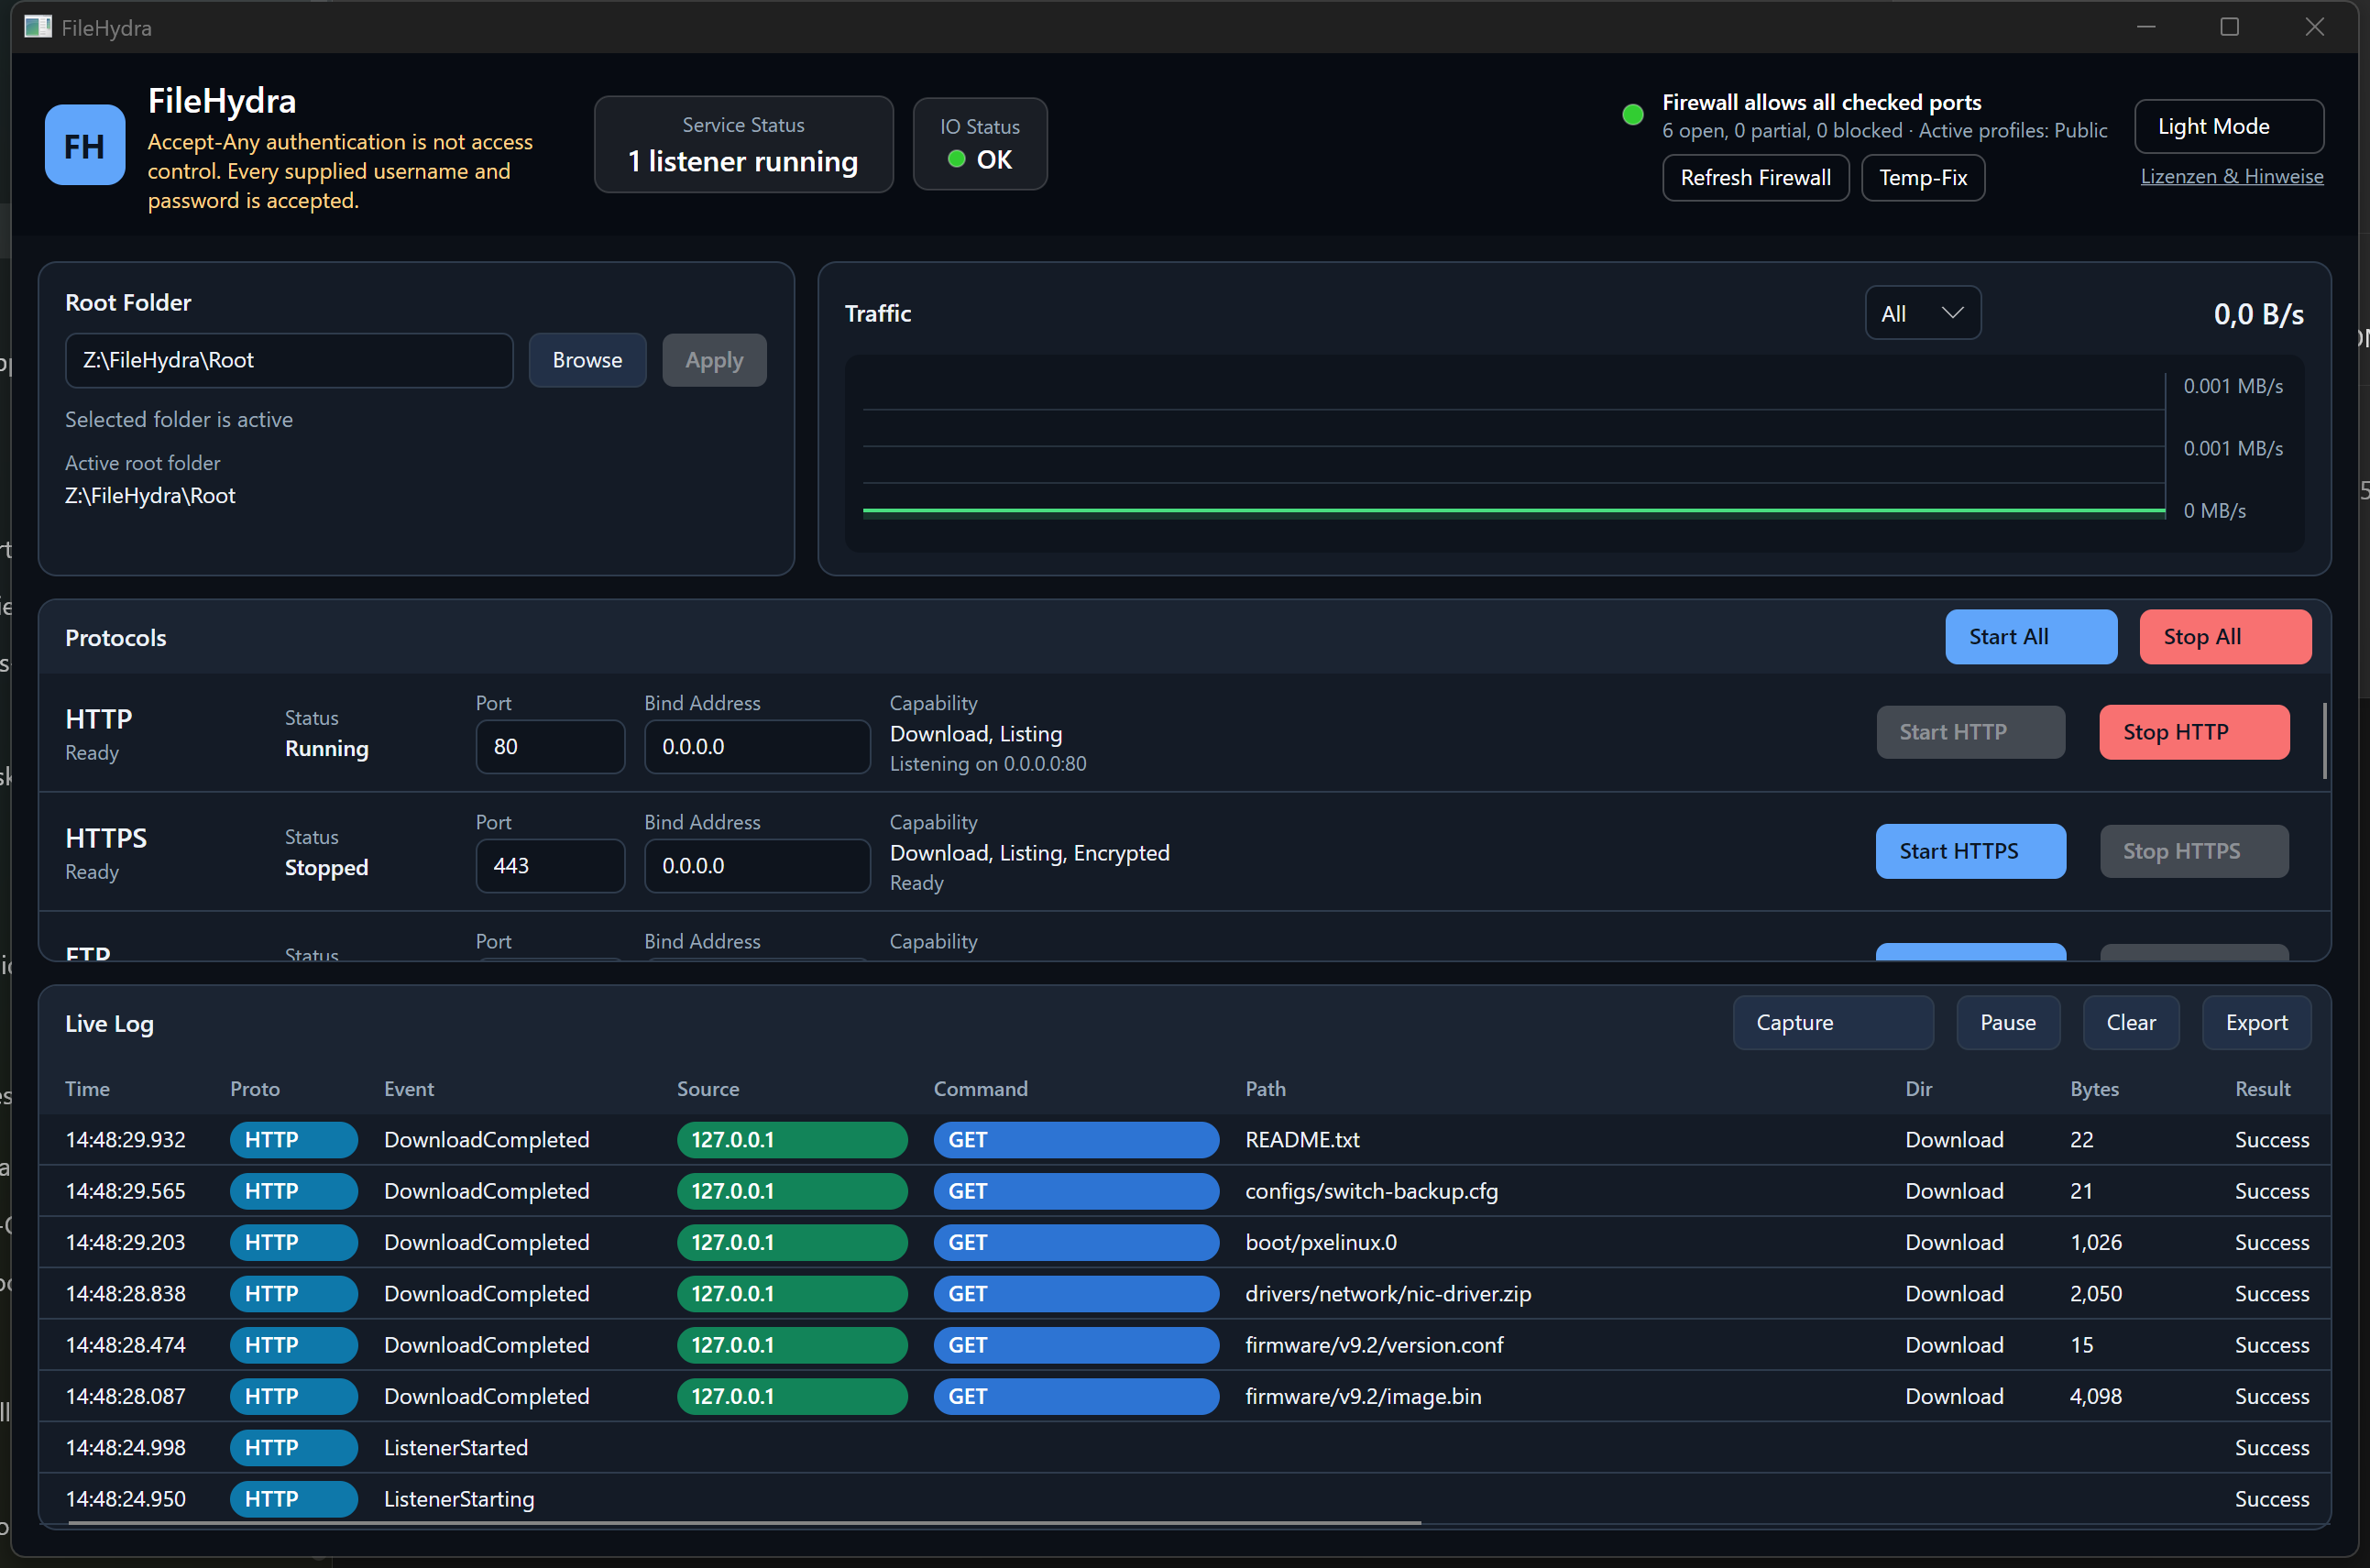
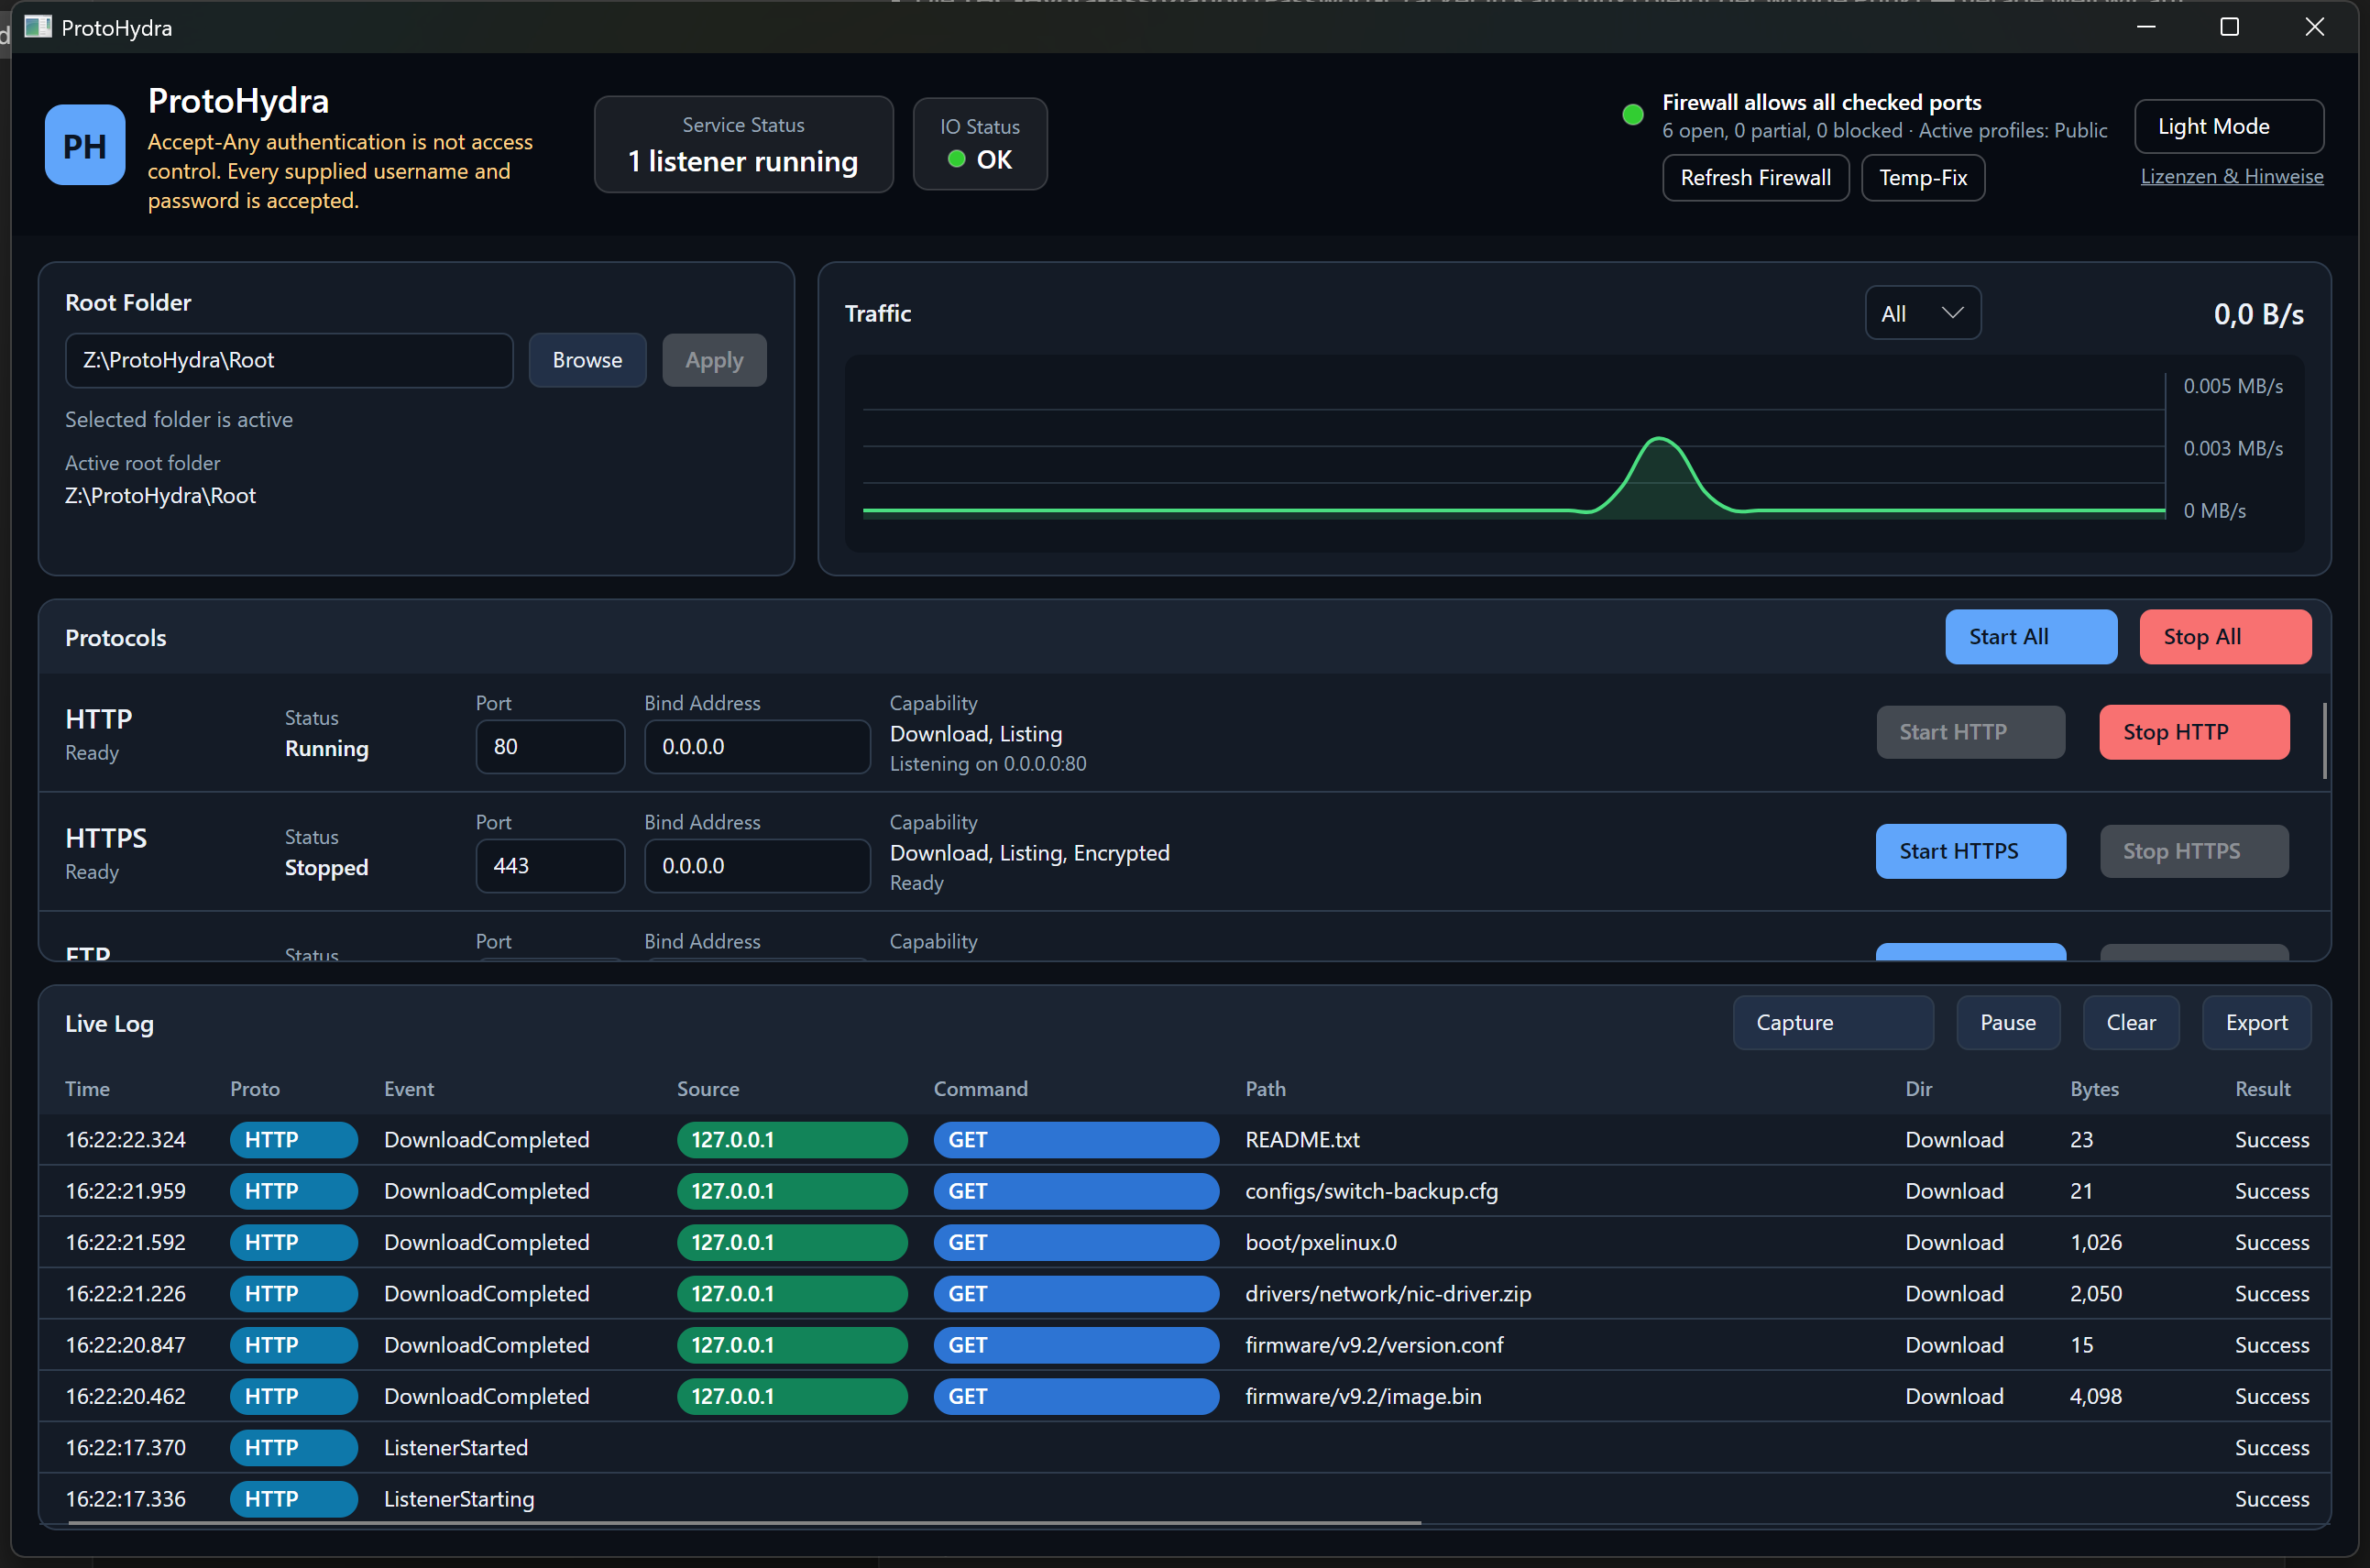
Rebrand: FileHydra -> ProtoHydra
Rename across code, UI, data path (%LOCALAPPDATA%\ProtoHydra\), SSH banner,
certificate CN, firewall rule names, solution file, CI workflow, SECURITY.md,
README (both languages) and screenshot. Version unchanged (1.4.0, pure rebrand).

diff --git a/src/DataService.Infrastructure/Firewall/WindowsTemporaryFirewallRuleService.cs b/src/DataService.Infrastructure/Firewall/WindowsTemporaryFirewallRuleService.cs
@@ -55,7 +55,7 @@ public sealed class WindowsTemporaryFirewallRuleService : IFirewallTemporaryRule
         }
 
         var ruleBaseName = BuildRuleBaseName(executablePath, ownerProcessId);
-        var stopEventName = $"Local\\FileHydra.FirewallFix.Stop.{ownerProcessId.ToString(CultureInfo.InvariantCulture)}";
+        var stopEventName = $"Local\\ProtoHydra.FirewallFix.Stop.{ownerProcessId.ToString(CultureInfo.InvariantCulture)}";
         lock (_lock)
         {
             _stopEvent?.Dispose();
@@ -115,7 +115,7 @@ public sealed class WindowsTemporaryFirewallRuleService : IFirewallTemporaryRule
         }
 
         var message = $"Temporary allow rules active (TCP: {FormatOrDash(tcpPorts)}; UDP: {FormatOrDash(udpPorts)}). "
-            + "They are removed automatically when FileHydra exits or when the fix is undone.";
+            + "They are removed automatically when ProtoHydra exits or when the fix is undone.";
         var policyWarning = TryGetPolicyWarning();
         if (policyWarning is not null)
         {
@@ -230,7 +230,7 @@ public sealed class WindowsTemporaryFirewallRuleService : IFirewallTemporaryRule
     private static string BuildRuleBaseName(string executablePath, int ownerProcessId)
     {
         var hash = Convert.ToHexString(SHA256.HashData(Encoding.UTF8.GetBytes(executablePath)))[..12];
-        return $"FileHydra Temporary Allow {ownerProcessId.ToString(CultureInfo.InvariantCulture)} {hash}";
+        return $"ProtoHydra Temporary Allow {ownerProcessId.ToString(CultureInfo.InvariantCulture)} {hash}";
     }
 
     private static string Quote(string value)
@@ -283,7 +283,7 @@ function Add-HydraRule {
     param($Policy, [string]$Name, [int]$Protocol, [string]$Ports)
     $rule = New-Object -ComObject HNetCfg.FWRule
     $rule.Name = $Name
-    $rule.Description = 'Temporary FileHydra allow rule. Removed automatically when the owner process exits.'
+    $rule.Description = 'Temporary ProtoHydra allow rule. Removed automatically when the owner process exits.'
     $rule.ApplicationName = $ExecutablePath
     $rule.Protocol = $Protocol
     $rule.LocalPorts = $Ports
@@ -299,9 +299,9 @@ try {
     Write-HelperLog "Elevated temporary firewall rule helper started (owner PID $OwnerProcessId)."
     $policy = New-Object -ComObject HNetCfg.FwPolicy2
 
-    $staleNames = @($policy.Rules | Where-Object { $_.Name -like 'FileHydra Temporary Allow *' } | ForEach-Object { $_.Name })
+    $staleNames = @($policy.Rules | Where-Object { $_.Name -like 'ProtoHydra Temporary Allow *' } | ForEach-Object { $_.Name })
     foreach ($staleName in $staleNames) {
-        # Rule name layout: "FileHydra Temporary Allow <pid> <hash> <TCP|UDP>" -> PID is token index 3.
+        # Rule name layout: "ProtoHydra Temporary Allow <pid> <hash> <TCP|UDP>" -> PID is token index 3.
         $parts = $staleName.Split(' ')
         $rulePid = 0
         if ($parts.Length -ge 4 -and [int]::TryParse($parts[3], [ref]$rulePid)) {

diff --git a/src/DataService.App/Views/LicenseWindow.axaml.cs b/src/DataService.App/Views/LicenseWindow.axaml.cs
@@ -16,10 +16,10 @@ public sealed partial class LicenseWindow : Window
 
     private static string BuildText()
     {
-        var mit = ReadResource("avares://FileHydra/Legal/LICENSE.txt");
-        var notices = ReadResource("avares://FileHydra/Legal/THIRD-PARTY-NOTICES.txt");
+        var mit = ReadResource("avares://ProtoHydra/Legal/LICENSE.txt");
+        var notices = ReadResource("avares://ProtoHydra/Legal/THIRD-PARTY-NOTICES.txt");
         return
-            "FileHydra — License (MIT)\n" +
+            "ProtoHydra — License (MIT)\n" +
             "==============================================================================\n\n" +
             mit +
             "\n\n\n" +

diff --git a/src/DataService.Core/Configuration/ApplicationDataPaths.cs b/src/DataService.Core/Configuration/ApplicationDataPaths.cs
@@ -2,7 +2,7 @@ namespace DataService.Core.Configuration;
 
 public static class ApplicationDataPaths
 {
-    public const string ProductDirectoryName = "FileHydra";
+    public const string ProductDirectoryName = "ProtoHydra";
 
     public static string Root
     {

diff --git a/src/DataService.Infrastructure/Certificates/CertificateManager.cs b/src/DataService.Infrastructure/Certificates/CertificateManager.cs
@@ -30,7 +30,7 @@ public sealed class CertificateManager : ICertificateManager
 
         using var rsa = RSA.Create(3072);
         var request = new CertificateRequest(
-            $"CN=FileHydra {purpose}",
+            $"CN=ProtoHydra {purpose}",
             rsa,
             HashAlgorithmName.SHA256,
             RSASignaturePadding.Pkcs1);

diff --git a/src/DataService.Protocols.Ssh/SharedSshServer.cs b/src/DataService.Protocols.Ssh/SharedSshServer.cs
@@ -223,7 +223,7 @@ public sealed class SharedSshServer : IDisposable
     {
         var address = IPAddress.Parse(configuration.BindAddress);
         var pem = await _hostKeyStore.GetOrCreateRsaKeyPemAsync(cancellationToken).ConfigureAwait(false);
-        var server = new SshServer(new StartingInfo(address, configuration.Port, "SSH-2.0-FileHydra"));
+        var server = new SshServer(new StartingInfo(address, configuration.Port, "SSH-2.0-ProtoHydra"));
         server.AddHostKey("rsa-sha2-256", pem);
         server.AddHostKey("rsa-sha2-512", pem);
         server.ConnectionAccepted += HandleConnectionAccepted;

diff --git a/tests/DataService.Core.Tests/Infrastructure/FirewallPolicyEvaluatorTests.cs b/tests/DataService.Core.Tests/Infrastructure/FirewallPolicyEvaluatorTests.cs
@@ -4,7 +4,7 @@ namespace DataService.Core.Tests.Infrastructure;
 
 public sealed class FirewallPolicyEvaluatorTests
 {
-    private const string ExecutablePath = @"C:\Apps\FileHydra\app.exe";
+    private const string ExecutablePath = @"C:\Apps\ProtoHydra\app.exe";
 
     private static FirewallProfileState Profile(
         FirewallProfile profile,

diff --git a/README.md b/README.md
@@ -1,5 +1,5 @@
 <a id="filehydra"></a>
-# FileHydra
+# ProtoHydra
 
 **Sprache / Language:  [🇩🇪 Deutsch](#-deutsch)  ·  [🇬🇧 English](#-english)**
 
@@ -11,22 +11,22 @@ _Multi-protocol file server for system administrators – seven protocols, one f
 <a id="-deutsch"></a>
 ## 🇩🇪 Deutsch
 
-FileHydra ist eine portable Windows-Desktopanwendung, die einen einzigen Ordner gleichzeitig über **TFTP, FTP, FTPS, SFTP, SCP, HTTP und HTTPS** bereitstellt. Statt für jeden Wartungsfall einen anderen Server zu installieren und zu konfigurieren, startest du FileHydra, wählst einen Ordner und aktivierst genau die Protokolle, die das Gerät oder der Client gerade erwartet – ohne Installation, ohne Dienst, ohne Domänenintegration.
+ProtoHydra ist eine portable Windows-Desktopanwendung, die einen einzigen Ordner gleichzeitig über **TFTP, FTP, FTPS, SFTP, SCP, HTTP und HTTPS** bereitstellt. Statt für jeden Wartungsfall einen anderen Server zu installieren und zu konfigurieren, startest du ProtoHydra, wählst einen Ordner und aktivierst genau die Protokolle, die das Gerät oder der Client gerade erwartet – ohne Installation, ohne Dienst, ohne Domänenintegration.
 
 Gedacht ist das Werkzeug für den Admin-Alltag: Netzwerkgeräte flashen, Appliances bootstrappen, Konfigurationen ein- und ausspielen, Recovery-Images ausliefern – oft an einem isolierten Wartungslaptop, direkt neben dem Rack.
 
 ![App-Screenshot](docs/screenshot.png)
 
-### Wofür Systemadministratoren FileHydra einsetzen
+### Wofür Systemadministratoren ProtoHydra einsetzen
 
-- **Firmware-Upgrades von Netzwerkgeräten.** Switches, Router, FC-Fabrics, WLAN-Controller und Storage-Appliances erwarten ihr Firmware-Image je nach Hersteller über TFTP, SCP oder SFTP – und oft mit exakt einem passenden Protokoll. FileHydra bietet den Firmware-Ordner über alle Varianten parallel an, sodass du nicht raten musst, welches das Zielgerät akzeptiert.
+- **Firmware-Upgrades von Netzwerkgeräten.** Switches, Router, FC-Fabrics, WLAN-Controller und Storage-Appliances erwarten ihr Firmware-Image je nach Hersteller über TFTP, SCP oder SFTP – und oft mit exakt einem passenden Protokoll. ProtoHydra bietet den Firmware-Ordner über alle Varianten parallel an, sodass du nicht raten musst, welches das Zielgerät akzeptiert.
 - **Backup und Restore von Gerätekonfigurationen.** `copy running-config tftp:` bzw. der SCP-/SFTP-Upload eines Config-Exports landet direkt im Root-Ordner; der Restore geht denselben Weg zurück.
 - **PXE- und Netzwerk-Boot.** Der TFTP-Dienst liefert Bootloader (`pxelinux.0`, `ipxe.efi`, WDS-Stufen), während HTTP große Boot-Images (WIM, Squashfs, ISO) deutlich schneller ausliefert als TFTP.
 - **Ausliefern von Treibern, Agents und Installationspaketen.** Ein Gerät oder Techniker im Feld lädt per HTTP/HTTPS im Browser oder per Skript – mit klickbarem Verzeichnislisting.
-- **Datenaustausch in abgeschotteten oder Air-Gap-Netzen.** Wenn kein zentraler Fileserver erreichbar ist, überbrückt ein Wartungslaptop mit FileHydra die Lücke, ohne dass etwas dauerhaft installiert wird.
+- **Datenaustausch in abgeschotteten oder Air-Gap-Netzen.** Wenn kein zentraler Fileserver erreichbar ist, überbrückt ein Wartungslaptop mit ProtoHydra die Lücke, ohne dass etwas dauerhaft installiert wird.
 - **Interoperabilitäts- und Client-Tests.** Reproduzierbar prüfen, wie sich ein Client oder eine Appliance gegenüber FTP, FTPS, SFTP oder klassischem SCP verhält – inklusive Live-Mitschnitt des Protokollverkehrs.
 
-> **Typischer Ablauf:** Wartungslaptop ins Geräte-VLAN, FileHydra starten, Firmware-Ordner als Root wählen, benötigtes Protokoll aktivieren, am Gerät den Transfer anstoßen, im Live-Log mitverfolgen – fertig.
+> **Typischer Ablauf:** Wartungslaptop ins Geräte-VLAN, ProtoHydra starten, Firmware-Ordner als Root wählen, benötigtes Protokoll aktivieren, am Gerät den Transfer anstoßen, im Live-Log mitverfolgen – fertig.
 
 ### Unterstützte Protokolle
 
@@ -60,15 +60,15 @@ Gedacht ist das Werkzeug für den Admin-Alltag: Netzwerkgeräte flashen, Applian
 
 **Voraussetzung:** Windows (x64). Es wird **kein** installiertes .NET benötigt – die Anwendung ist self-contained.
 
-Lade die aktuelle `FileHydra.exe` aus dem [Release-Bereich dieses Repositories](https://github.com/ThatIsCraZy/FileHydra/releases) herunter und starte sie direkt:
+Lade die aktuelle `ProtoHydra.exe` aus dem [Release-Bereich dieses Repositories](https://github.com/ThatIsCraZy/ProtoHydra/releases) herunter und starte sie direkt:
 
 ```powershell
-.\FileHydra.exe
+.\ProtoHydra.exe
 ```
 
 Keine Installation, kein Dienst, keine Registry-Einträge für die Anwendung selbst. Zum Deinstallieren genügt es, die EXE und den Datenordner (siehe unten) zu löschen.
 
-> **Ports unter 1024** (TFTP 69, FTP 21, SFTP/SCP 22, HTTP 80, HTTPS 443) erfordern unter Windows in der Regel administrative Rechte. Starte FileHydra als Administrator, wenn du die Standard-Ports nutzen willst, oder weiche im UI auf hohe Ports (z. B. 6969, 2121, 2222, 8080) aus.
+> **Ports unter 1024** (TFTP 69, FTP 21, SFTP/SCP 22, HTTP 80, HTTPS 443) erfordern unter Windows in der Regel administrative Rechte. Starte ProtoHydra als Administrator, wenn du die Standard-Ports nutzen willst, oder weiche im UI auf hohe Ports (z. B. 6969, 2121, 2222, 8080) aus.
 
 ### Verwendung
 
@@ -106,7 +106,7 @@ FTP/FTPS mit FileZilla, WinSCP oder curl (Host, Port `21`/`990`, beliebiger User
 
 ### Sicherheitshinweise
 
-> **⚠️ FileHydra ist kein gehärteter Produktivserver.**
+> **⚠️ ProtoHydra ist kein gehärteter Produktivserver.**
 
 Die Anwendung nutzt bewusst eine **Accept-Any-Authentifizierung**: Jeder Benutzername und jedes Passwort wird akzeptiert, es findet **keine Zugriffskontrolle** statt. Das ist für Wartungs- und Bootstrapping-Szenarien gewollt (Geräte liefern oft feste oder leere Credentials), macht das Tool aber **ungeeignet für den dauerhaften oder öffentlich erreichbaren Betrieb**.
 
@@ -118,7 +118,7 @@ Eingebaute Schutzmechanismen: mehrstufige Pfadvalidierung gegen Ausbruch aus dem
 
 ### Datenablage und Konfiguration
 
-Einstellungen liegen als JSON im Benutzerprofil. Laufzeitdaten (Zertifikate, SSH-Host-Key, Logs, Firewall-Helper) liegen unter `%LOCALAPPDATA%\FileHydra\`, der Standard-Root-Ordner unter `%LOCALAPPDATA%\FileHydra\Root`. Konfigurierbar sind u. a. RootPath, Protocols (Ports/Bind-Adressen/aktivierte Protokolle), Certificate (X.509 für HTTPS/FTPS), SshHostKey und LogSettings.
+Einstellungen liegen als JSON im Benutzerprofil. Laufzeitdaten (Zertifikate, SSH-Host-Key, Logs, Firewall-Helper) liegen unter `%LOCALAPPDATA%\ProtoHydra\`, der Standard-Root-Ordner unter `%LOCALAPPDATA%\ProtoHydra\Root`. Konfigurierbar sind u. a. RootPath, Protocols (Ports/Bind-Adressen/aktivierte Protokolle), Certificate (X.509 für HTTPS/FTPS), SshHostKey und LogSettings.
 
 ### Bauen aus dem Quellcode
 
@@ -130,7 +130,7 @@ dotnet publish src\DataService.App\DataService.App.csproj -c Release   # self-co
 dotnet test                                                            # Tests
 ```
 
-Die fertige EXE liegt unter `src\DataService.App\bin\Release\net10.0\win-x64\publish\FileHydra.exe`.
+Die fertige EXE liegt unter `src\DataService.App\bin\Release\net10.0\win-x64\publish\ProtoHydra.exe`.
 
 ### Projektarchitektur
 
@@ -148,11 +148,11 @@ src/
 
 ### Danksagung & verwendete Quellen
 
-FileHydra steht auf den Schultern hervorragender Open-Source-Arbeit. Unser aufrichtiger Dank gilt den Autorinnen und Autoren sowie den Maintainer-Teams der folgenden Projekte – ohne sie gäbe es dieses Werkzeug nicht:
+ProtoHydra steht auf den Schultern hervorragender Open-Source-Arbeit. Unser aufrichtiger Dank gilt den Autorinnen und Autoren sowie den Maintainer-Teams der folgenden Projekte – ohne sie gäbe es dieses Werkzeug nicht:
 
 **Direkt eingebundene Laufzeitbibliotheken**
 
-| Komponente | Zweck in FileHydra | Autor / Projekt | Lizenz |
+| Komponente | Zweck in ProtoHydra | Autor / Projekt | Lizenz |
 |---|---|---|---|
 | [Avalonia](https://avaloniaui.net) (`Avalonia`, `Avalonia.Desktop`, `Avalonia.Themes.Fluent`) | Plattform-GUI | AvaloniaUI OÜ & Contributors | MIT |
 | [CommunityToolkit.Mvvm](https://github.com/CommunityToolkit/dotnet) | MVVM-Grundgerüst | .NET Foundation & Contributors | MIT |
@@ -169,7 +169,7 @@ FileHydra steht auf den Schultern hervorragender Open-Source-Arbeit. Unser aufri
 **Referenzimplementierungen und Protokoll-Quellen** (kein fremder Quellcode übernommen – die interoperablen Wire-Protokolle wurden anhand dieser Projekte nachvollzogen):
 
 - [OpenSSH](https://www.openssh.com/) (BSD-artige Lizenz) – maßgebliche Referenz für das Verhalten des SCP-Protokolls (Exec-Modus, rekursive Übertragung, Rename-Semantik). Die vollständige Lizenz liegt unter [`THIRD-PARTY-NOTICES/OpenSSH/`](THIRD-PARTY-NOTICES/OpenSSH/).
-- [WinSCP](https://winscp.net/) – Referenz für das Verhalten des Shell-basierten SCP-Modus (Begin-/End-Marker, Return-Code-Erkennung, Kommando-Set), das FileHydra für die WinSCP-Kompatibilität nachbildet.
+- [WinSCP](https://winscp.net/) – Referenz für das Verhalten des Shell-basierten SCP-Modus (Begin-/End-Marker, Return-Code-Erkennung, Kommando-Set), das ProtoHydra für die WinSCP-Kompatibilität nachbildet.
 
 > Die vorstehenden Lizenzangaben dienen der Orientierung. **Maßgeblich ist stets die dem jeweiligen Projekt bzw. NuGet-Paket beiliegende Lizenz.** Alle genannten Komponenten verbleiben im Eigentum ihrer jeweiligen Rechteinhaber; ihre Lizenz- und Hinweispflichten gelten unverändert fort.
 
@@ -177,7 +177,7 @@ FileHydra steht auf den Schultern hervorragender Open-Source-Arbeit. Unser aufri
 
 Copyright © 2026 ThatIsCraZy.
 
-FileHydra (der Eigencode dieses Repositories) steht unter der **MIT-Lizenz**; der vollständige und rechtsverbindliche Lizenztext befindet sich in der Datei [LICENSE](LICENSE). Die nachfolgende Zusammenfassung dient nur der Übersicht und ersetzt den Lizenztext nicht.
+ProtoHydra (der Eigencode dieses Repositories) steht unter der **MIT-Lizenz**; der vollständige und rechtsverbindliche Lizenztext befindet sich in der Datei [LICENSE](LICENSE). Die nachfolgende Zusammenfassung dient nur der Übersicht und ersetzt den Lizenztext nicht.
 
 - **Erlaubt:** Nutzung, Vervielfältigung, Änderung, Zusammenführung, Veröffentlichung, Verbreitung, Unterlizenzierung und Verkauf – privat wie kommerziell.
 - **Bedingung:** Der obige Copyright-Vermerk und der Lizenztext müssen in allen Kopien oder wesentlichen Teilen der Software enthalten bleiben.
@@ -194,22 +194,22 @@ Teile des Eigencodes wurden mit Unterstützung von KI-Werkzeugen erstellt; die L
 <a id="-english"></a>
 ## 🇬🇧 English
 
-FileHydra is a portable Windows desktop application that serves a single folder simultaneously over **TFTP, FTP, FTPS, SFTP, SCP, HTTP and HTTPS**. Instead of installing and configuring a different server for every maintenance task, you launch FileHydra, pick a folder and enable exactly the protocols the device or client expects — no installation, no service, no domain integration.
+ProtoHydra is a portable Windows desktop application that serves a single folder simultaneously over **TFTP, FTP, FTPS, SFTP, SCP, HTTP and HTTPS**. Instead of installing and configuring a different server for every maintenance task, you launch ProtoHydra, pick a folder and enable exactly the protocols the device or client expects — no installation, no service, no domain integration.
 
 The tool is built for everyday admin work: flashing network gear, bootstrapping appliances, pushing and pulling configurations, delivering recovery images — often from an isolated maintenance laptop right next to the rack.
 
 ![Application screenshot](docs/screenshot.png)
 
-### What system administrators use FileHydra for
+### What system administrators use ProtoHydra for
 
-- **Firmware upgrades of network devices.** Switches, routers, FC fabrics, WLAN controllers and storage appliances expect their firmware image over TFTP, SCP or SFTP depending on the vendor — often via exactly one supported protocol. FileHydra offers the firmware folder over all of them at once, so you never have to guess which one the target device accepts.
+- **Firmware upgrades of network devices.** Switches, routers, FC fabrics, WLAN controllers and storage appliances expect their firmware image over TFTP, SCP or SFTP depending on the vendor — often via exactly one supported protocol. ProtoHydra offers the firmware folder over all of them at once, so you never have to guess which one the target device accepts.
 - **Backup and restore of device configurations.** `copy running-config tftp:` or an SCP/SFTP upload of a config export lands directly in the root folder; the restore takes the same path back.
 - **PXE and network boot.** The TFTP service delivers bootloaders (`pxelinux.0`, `ipxe.efi`, WDS stages), while HTTP serves large boot images (WIM, Squashfs, ISO) far faster than TFTP.
 - **Delivering drivers, agents and installers.** A device or an on-site technician downloads via HTTP/HTTPS in the browser or by script — with a clickable directory listing.
-- **Data exchange in segregated or air-gapped networks.** When no central file server is reachable, a maintenance laptop running FileHydra bridges the gap without installing anything permanently.
+- **Data exchange in segregated or air-gapped networks.** When no central file server is reachable, a maintenance laptop running ProtoHydra bridges the gap without installing anything permanently.
 - **Interoperability and client testing.** Reproducibly check how a client or appliance behaves against FTP, FTPS, SFTP or classic SCP — including a live capture of the protocol traffic.
 
-> **Typical workflow:** maintenance laptop into the device VLAN, launch FileHydra, select the firmware folder as root, enable the required protocol, trigger the transfer on the device, follow along in the live log — done.
+> **Typical workflow:** maintenance laptop into the device VLAN, launch ProtoHydra, select the firmware folder as root, enable the required protocol, trigger the transfer on the device, follow along in the live log — done.
 
 ### Supported protocols
 
@@ -243,15 +243,15 @@ The tool is built for everyday admin work: flashing network gear, bootstrapping 
 
 **Requirement:** Windows (x64). **No** installed .NET runtime is required — the application is self-contained.
 
-Download the latest `FileHydra.exe` from the [releases section of this repository](https://github.com/ThatIsCraZy/FileHydra/releases) and run it directly:
+Download the latest `ProtoHydra.exe` from the [releases section of this repository](https://github.com/ThatIsCraZy/ProtoHydra/releases) and run it directly:
 
 ```powershell
-.\FileHydra.exe
+.\ProtoHydra.exe
 ```
 
 No installation, no service, no registry entries for the application itself. To uninstall, simply delete the EXE and the data folder (see below).
 
-> **Ports below 1024** (TFTP 69, FTP 21, SFTP/SCP 22, HTTP 80, HTTPS 443) usually require administrative privileges on Windows. Run FileHydra as administrator to use the default ports, or switch to high ports (e.g. 6969, 2121, 2222, 8080) in the UI.
+> **Ports below 1024** (TFTP 69, FTP 21, SFTP/SCP 22, HTTP 80, HTTPS 443) usually require administrative privileges on Windows. Run ProtoHydra as administrator to use the default ports, or switch to high ports (e.g. 6969, 2121, 2222, 8080) in the UI.
 
 ### Usage
 
@@ -289,7 +289,7 @@ FTP/FTPS with FileZilla, WinSCP or curl (host, port `21`/`990`, any user/pass). 
 
 ### Security notice
 
-> **⚠️ FileHydra is not a hardened production server.**
+> **⚠️ ProtoHydra is not a hardened production server.**
 
 The application deliberately uses **Accept-Any authentication**: any username and password is accepted, and there is **no access control**. This is intentional for maintenance and bootstrapping scenarios (devices often supply fixed or empty credentials) but makes the tool **unsuitable for permanent or publicly reachable operation**.
 
@@ -301,7 +301,7 @@ Built-in safeguards: multi-stage path validation against root escape; blocking o
 
 ### Data storage and configuration
 
-Settings are stored as JSON in the user profile. Runtime data (certificates, SSH host key, logs, firewall helper) lives under `%LOCALAPPDATA%\FileHydra\`, the default root folder under `%LOCALAPPDATA%\FileHydra\Root`. Configurable items include RootPath, Protocols (ports/bind addresses/enabled protocols), Certificate (X.509 for HTTPS/FTPS), SshHostKey and LogSettings.
+Settings are stored as JSON in the user profile. Runtime data (certificates, SSH host key, logs, firewall helper) lives under `%LOCALAPPDATA%\ProtoHydra\`, the default root folder under `%LOCALAPPDATA%\ProtoHydra\Root`. Configurable items include RootPath, Protocols (ports/bind addresses/enabled protocols), Certificate (X.509 for HTTPS/FTPS), SshHostKey and LogSettings.
 
 ### Building from source
 
@@ -313,7 +313,7 @@ dotnet publish src\DataService.App\DataService.App.csproj -c Release   # self-co
 dotnet test                                                            # tests
 ```
 
-The finished EXE is located at `src\DataService.App\bin\Release\net10.0\win-x64\publish\FileHydra.exe`.
+The finished EXE is located at `src\DataService.App\bin\Release\net10.0\win-x64\publish\ProtoHydra.exe`.
 
 ### Project architecture
 
@@ -331,11 +331,11 @@ src/
 
 ### Acknowledgements & sources
 
-FileHydra stands on the shoulders of excellent open-source work. Our sincere thanks go to the authors and maintainer teams of the following projects — without them this tool would not exist:
+ProtoHydra stands on the shoulders of excellent open-source work. Our sincere thanks go to the authors and maintainer teams of the following projects — without them this tool would not exist:
 
 **Directly bundled runtime libraries**
 
-| Component | Role in FileHydra | Author / project | License |
+| Component | Role in ProtoHydra | Author / project | License |
 |---|---|---|---|
 | [Avalonia](https://avaloniaui.net) (`Avalonia`, `Avalonia.Desktop`, `Avalonia.Themes.Fluent`) | Cross-platform GUI | AvaloniaUI OÜ & contributors | MIT |
 | [CommunityToolkit.Mvvm](https://github.com/CommunityToolkit/dotnet) | MVVM foundation | .NET Foundation & contributors | MIT |
@@ -352,7 +352,7 @@ FileHydra stands on the shoulders of excellent open-source work. Our sincere tha
 **Reference implementations and protocol sources** (no third-party source code was copied — the interoperable wire protocols were reproduced by studying these projects):
 
 - [OpenSSH](https://www.openssh.com/) (BSD-style license) — the authoritative reference for SCP protocol behaviour (exec mode, recursive transfer, rename semantics). The full license is in [`THIRD-PARTY-NOTICES/OpenSSH/`](THIRD-PARTY-NOTICES/OpenSSH/).
-- [WinSCP](https://winscp.net/) — reference for the behaviour of the shell-based SCP mode (begin/end markers, return-code detection, command set) that FileHydra reimplements for WinSCP compatibility.
+- [WinSCP](https://winscp.net/) — reference for the behaviour of the shell-based SCP mode (begin/end markers, return-code detection, command set) that ProtoHydra reimplements for WinSCP compatibility.
 
 > The license information above is provided for orientation. **The authoritative license is always the one shipped with the respective project or NuGet package.** All listed components remain the property of their respective rights holders; their license and notice obligations continue to apply unchanged.
 
@@ -360,7 +360,7 @@ FileHydra stands on the shoulders of excellent open-source work. Our sincere tha
 
 Copyright © 2026 ThatIsCraZy.
 
-FileHydra (the original code in this repository) is licensed under the **MIT License**; the full and legally binding license text is in the [LICENSE](LICENSE) file. The following summary is for convenience only and does not replace the license text.
+ProtoHydra (the original code in this repository) is licensed under the **MIT License**; the full and legally binding license text is in the [LICENSE](LICENSE) file. The following summary is for convenience only and does not replace the license text.
 
 - **Permitted:** use, copy, modify, merge, publish, distribute, sublicense and sell — privately and commercially.
 - **Condition:** the above copyright notice and the license text must be retained in all copies or substantial portions of the software.

diff --git a/SECURITY.md b/SECURITY.md
@@ -12,12 +12,12 @@ information in reports.
 
 ## Scope note
 
-FileHydra is a maintenance/lab tool that deliberately ships with an
+ProtoHydra is a maintenance/lab tool that deliberately ships with an
 **Accept-Any authentication policy** (every username/password is accepted, no
 access control) and can create a **temporary, user-approved (elevated) Windows
 Firewall allow rule** for its own listener ports. Both are documented, opt-in
 maintenance features — not attempts to exploit vulnerabilities or circumvent
-security controls. FileHydra is intended for controlled maintenance/device
+security controls. ProtoHydra is intended for controlled maintenance/device
 networks, **not** for permanent or publicly reachable operation. Reports that
 simply restate this documented behaviour are not considered vulnerabilities.
 
@@ -48,9 +48,9 @@ signing request.
 
 **Privacy**
 
-FileHydra collects **no** telemetry and transmits **no** usage or personal data.
+ProtoHydra collects **no** telemetry and transmits **no** usage or personal data.
 All runtime data (certificates, SSH host key, logs, configuration) stays on the
-local machine under `%LOCALAPPDATA%\FileHydra\`.
+local machine under `%LOCALAPPDATA%\ProtoHydra\`.
 
 **Attribution**
 
@@ -63,7 +63,7 @@ After a signed release is published, you can verify the signature on Windows
 with:
 
 ```powershell
-Get-AuthenticodeSignature .\FileHydra.exe | Format-List Status, SignerCertificate
+Get-AuthenticodeSignature .\ProtoHydra.exe | Format-List Status, SignerCertificate
 ```
 
 A valid signature reports `Status: Valid` and a certificate issued for the